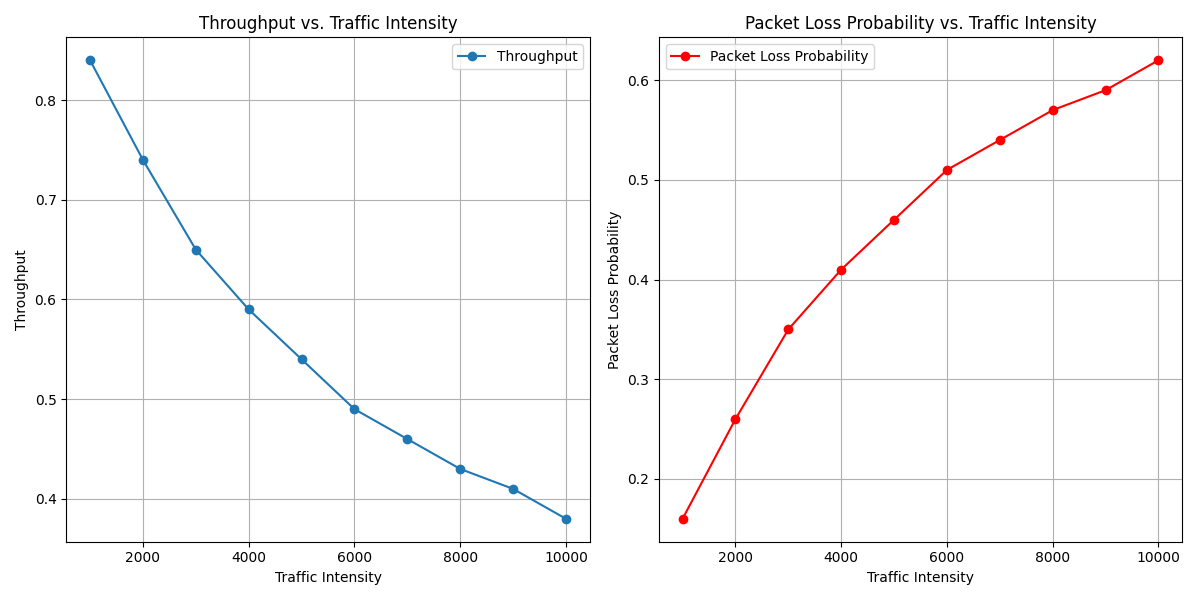
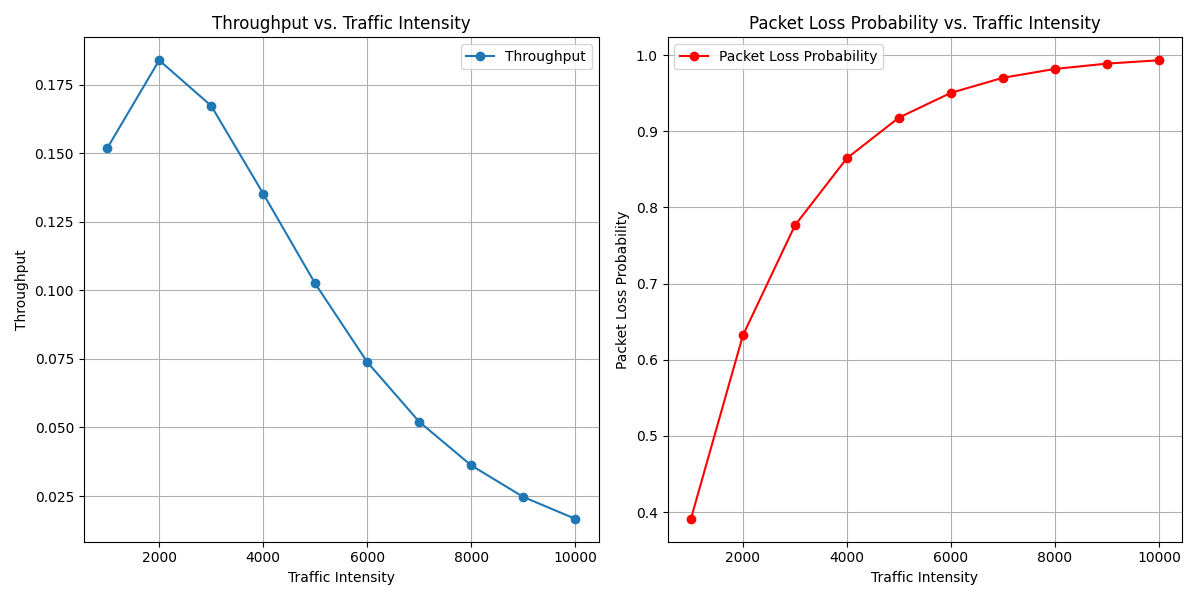
Finished simulating subtask 1 and 2

diff --git a/assignment3/task1/MainSimulation.java b/assignment3/task1/MainSimulation.java
@@ -4,50 +4,119 @@ import java.util.*;
 import java.io.*;
 
 public class MainSimulation extends Global {
+	private static double[] resultsThroughput;
+	private static double[] resultsPacketLoss;
+	private static double[] resultsUpperBound;
+
+	private static final ArrayList<Double> meanValuesPacketLoss = new ArrayList<>();
+	private static final ArrayList<Double> upperBounArrayList = new ArrayList<>();
+	private static final ArrayList<Double> meanValuesThroughput = new ArrayList<>();
+	int radius;
+	double sleepTime;
+	int sendTime;
+	List<int[]> coordinates;
 
 	public static void main(String[] args) throws IOException {
-		// Simulationi parameters
-		ConfigFileReader cfr = new ConfigFileReader(
-				"assignment3/task1/inputs/2000config");
-		Signal actSignal;
-		int radius = cfr.getR();
-		double sleepTime = 1.0 * 1.0 / cfr.getTs();
-		int sendTime = cfr.getTp();
-		List<int[]> coordinates = cfr.getCoordinates();
-		Random rand = new Random();
+		System.out.println("staring main sim");
+
+		// Initialize simulation components
+		MainSimulation m = new MainSimulation();
+		// Run the simulation 1000 times
+		for (int i = 0; i < 100; i++) {
+			runSimulation(m);
+			if (i % 10 == 0)
+				System.out.println("simulation n complete: " + i);
+		}
+
+		// Calculate and print averages
+		calculateAndPrintAverages();
+	}
+
+	public MainSimulation() throws IOException {
+		ConfigFileReader cfr = new ConfigFileReader("assignment3/task1/inputs/10000config");
+
+		this.radius = cfr.getR();
+		this.sleepTime = 1.0 / cfr.getTs();
+		this.sendTime = cfr.getTp();
+		this.coordinates = cfr.getCoordinates();
+	}
+
+	private static void runSimulation(MainSimulation m) throws IOException {
+		// Load configuration
+
 		SignalList signalList = new SignalList();
 		CollisionSensor collisionSensor = new CollisionSensor(signalList);
-		double ConfLenght = Double.MAX_VALUE;
 
-		// Initialize sensors
+		initializeSensors(collisionSensor, signalList, m.coordinates, m.radius, m.sleepTime, m.sendTime);
+
+		// Run the simulation and process results
+		simulate(collisionSensor, signalList);
+		processResults(collisionSensor);
+	}
+
+	private static void initializeSensors(CollisionSensor collisionSensor, SignalList signalList,
+			List<int[]> coordinates, int radius, double sleepTime, int sendTime) {
 		for (int[] coord : coordinates) {
 			int x = coord[1];
 			int y = coord[2];
-			Sensor sensor = new Sensor(x, y, collisionSensor, signalList,
-					radius, sleepTime, sendTime);
+			Sensor sensor = new Sensor(x, y, collisionSensor, signalList, radius, sleepTime, sendTime);
 			collisionSensor.addSensor(sensor);
 		}
-		// Start sensors
+
 		for (Sensor s : collisionSensor.getSensors()) {
 			s.initialStart();
-
 		}
-		signalList.SendSignal(MEASURE, collisionSensor, collisionSensor, time + getRandomDouble() * 6000);
+	}
 
-		// Main loop
-		while (time < 20000 || ConfLenght > 0.0001) {
-			actSignal = signalList.FetchSignal();
+	private static void simulate(CollisionSensor collisionSensor, SignalList signalList) {
+		time = 0;
+		double lowerBound = Double.MAX_VALUE;
+		double previousUpperBound = 0.9519;
+
+		// Start the measurement process
+		signalList.SendSignal(MEASURE, collisionSensor, collisionSensor, time + getRandomDouble() * 6000);
+		for (Sensor s : collisionSensor.getSensors()) {
+			s.initialStart();
+		}
+
+		// Main simulation loop
+		while (time < 20000 || previousUpperBound > lowerBound) {
+			Signal actSignal = signalList.FetchSignal();
 			time = actSignal.arrivalTime;
 			actSignal.destination.TreatSignal(actSignal);
-			ConfLenght = collisionSensor.getConfInterval()[3];
-
+			lowerBound = collisionSensor.getConfInterval()[0];
 		}
-		System.out.println("Packet loss probability: " + collisionSensor.getConfInterval()[2]);
-		System.out.println("Throughput:" + 1.0 * collisionSensor.getnbrSuccess() / time);
 
-		System.out.println("Number of collisions: " + collisionSensor.getNbrCollision());
-		System.out.println("Total sends: " + collisionSensor.getTotal());
-		System.out.println("Successfull sends: " + collisionSensor.getnbrSuccess());
+		// Clear the signal list after the simulation
+		signalList.ClearList();
+	}
+
+	private static void processResults(CollisionSensor collisionSensor) {
+		// Calculate statistics
+		double throughput = 1.0 * collisionSensor.getnbrSuccess() / time;
+		double[] confInterval = collisionSensor.getConfInterval();
+
+		// Store results
+		meanValuesPacketLoss.add(confInterval[2]);
+		meanValuesThroughput.add(throughput);
+		upperBounArrayList.add(confInterval[1]);
 
 	}
+
+	private static void calculateAndPrintAverages() {
+		// Compute averages
+		double avgPacketLoss = meanValuesPacketLoss.stream().mapToDouble(Double::doubleValue).average().orElse(0);
+		double avgThroughput = meanValuesThroughput.stream().mapToDouble(Double::doubleValue).average().orElse(0);
+		double avgUpperBound = upperBounArrayList.stream().mapToDouble(Double::doubleValue).average().orElse(0);
+
+		// Print results
+		System.out.println("Average PacketLoss: " + avgPacketLoss);
+		System.out.println("Average Throughput: " + avgThroughput);
+		System.out.println("Average Upper Bound: " + avgUpperBound);
+		System.out.println("Packet Loss confidence Interval: "
+				+ confidenceInterval.calculate95ConfidenceInterval(meanValuesPacketLoss)[3]);
+		System.out.println("Throughput confidence Interval: "
+				+ confidenceInterval.calculate95ConfidenceInterval(meanValuesThroughput)[3]);
+	}
+
 }

diff --git a/assignment3/task1/CollisionSensor.java b/assignment3/task1/CollisionSensor.java
@@ -5,8 +5,8 @@ import java.util.ArrayList;
 public class CollisionSensor extends Proc {
     private ArrayList<Sensor> sensors = new ArrayList<Sensor>();
     private int nbrColisions, nbrSuccess, total, nbrMeasurments = 0, runningTransmissios = 0, runningTotal = 0;
-    private ArrayList<Sensor> currentlySending = new ArrayList<Sensor>();
-    private ArrayList<Double> packetLossList = new ArrayList<Double>();
+    private ArrayList<Sensor> currentlySending;
+    private ArrayList<Double> packetLossList;
     private SignalList signalList;
     private double[] confInterval = new double[] { Double.MAX_VALUE, Double.MAX_VALUE, Double.MAX_VALUE,
             Double.MAX_VALUE };
@@ -14,6 +14,8 @@ public class CollisionSensor extends Proc {
 
     public CollisionSensor(SignalList signalList) {
         this.signalList = signalList;
+        this.packetLossList = new ArrayList<Double>();
+        this.currentlySending = new ArrayList<Sensor>();
     }
 
     public void addSensor(Sensor s) {
@@ -26,14 +28,9 @@ public class CollisionSensor extends Proc {
             case START: {
                 total++;
                 Sensor sensor = (Sensor) x.origin;
-                if (currentlySending.size() > 0) {
+                currentlySending.add(sensor);
+                if (currentlySending.size() > 1)
                     fail = true;
-                    nbrColisions++;
-                    sensor.getSignalList().SendSignal(COLISSON, sensor, this, time);
-                } else {
-                    currentlySending.add(sensor);
-                    sensor.getSignalList().SendSignal(OK, sensor, this, time);
-                }
             }
                 break;
             case FINISHEDSENDING: {
@@ -48,7 +45,7 @@ public class CollisionSensor extends Proc {
                 break;
             case MEASURE: {
                 nbrMeasurments++;
-                double packetLoss = 1 - 1.0 * nbrSuccess / total;
+                double packetLoss = (total > 0) ? 1 - 1.0 * nbrSuccess / total : 1.0;
                 packetLossList.add(packetLoss);
                 signalList.SendSignal(MEASURE, this, this, time + getRandomDouble() * 6000);
                 confInterval = confidenceInterval.calculate95ConfidenceInterval(packetLossList);

diff --git a/assignment3/task1/Sensor.java b/assignment3/task1/Sensor.java
@@ -24,20 +24,25 @@ public class Sensor extends Proc {
         switch (x.signalType) {
             case START: {
                 signalList.SendSignal(START, collisionSensor, this, time);
-            }
-                break;
-            case COLISSON: {
-                sending = false;
-                signalList.SendSignal(START, this, this, time + getNext(sleepTime));
-            }
-                break;
-            case OK: {
-                sending = true;
                 signalList.SendSignal(FINISHEDSENDING, collisionSensor, this, time + sendTime);
                 signalList.SendSignal(START, this, this, time + sendTime + getNext(sleepTime));
             }
                 break;
-
+            /*
+             * case COLISSON: {
+             * sending = false;
+             * signalList.SendSignal(START, this, this, time + getNext(sleepTime));
+             * }
+             * break;
+             * case OK: {
+             * sending = true;
+             * signalList.SendSignal(FINISHEDSENDING, collisionSensor, this, time +
+             * sendTime);
+             * signalList.SendSignal(START, this, this, time + sendTime +
+             * getNext(sleepTime));
+             * }
+             * break;
+             */
         }
     }
 

diff --git a/assignment3/task1/make_plot.py b/assignment3/task1/make_plot.py
@@ -31,12 +31,33 @@ def plot_results(intensity, throughput, packet_loss):
 
 if __name__ == "__main__":
     intensity = [1000, 2000, 3000, 4000, 5000, 6000, 7000, 8000, 9000, 10000]
-    throughput = [0.84, 0.74, 0.65, 0.59, 0.54, 0.49, 0.46, 0.43, 0.41, 0.38]
-    packet_loss = [0.16, 0.26, 0.35, 0.41, 0.46, 0.51, 0.54, 0.57, 0.59, 0.62]
+    throughput = [
+        0.1518,
+        0.1839,
+        0.1673,
+        0.1353,
+        0.1025,
+        0.0739,
+        0.0521,
+        0.0362,
+        0.0247,
+        0.0167,
+    ]
+    packet_loss = [
+        0.3912,
+        0.6321,
+        0.7764,
+        0.8646,
+        0.9179,
+        0.9504,
+        0.9702,
+        0.9818,
+        0.9888,
+        0.9932,
+    ]
 
     x1 = [0.181, 0.279, 0.331, 0.357, 0.368, 0.372, 0.365, 0.359, 0.351, 0.336]
     x2 = [0.121, 0.218, 0.291, 0.368, 0.431, 0.474, 0.527, 0.565, 0.597, 0.635]
     y = [1000, 2000, 3000, 4000, 5000, 6000, 7000, 8000, 9000, 10000]
 
     plot_results(intensity, throughput, packet_loss)
-    plot_results(y, x1, x2)

diff --git a/assignment3/task1/confidenceInterval.java b/assignment3/task1/confidenceInterval.java
@@ -31,6 +31,6 @@ public class confidenceInterval {
         double lowerBound = mean - marginOfError;
         double upperBound = mean + marginOfError;
 
-        return new double[] { lowerBound, upperBound, mean, marginOfError * 2 };
+        return new double[] { lowerBound, upperBound, mean, marginOfError * 2.0 };
     }
 }

diff --git a/assignment3/task1/SignalList.java b/assignment3/task1/SignalList.java
@@ -40,4 +40,8 @@ public class SignalList {
 		dummy.next = null;
 		return dummy;
 	}
+
+	public void ClearList() {
+		list.next = last;
+	}
 }
